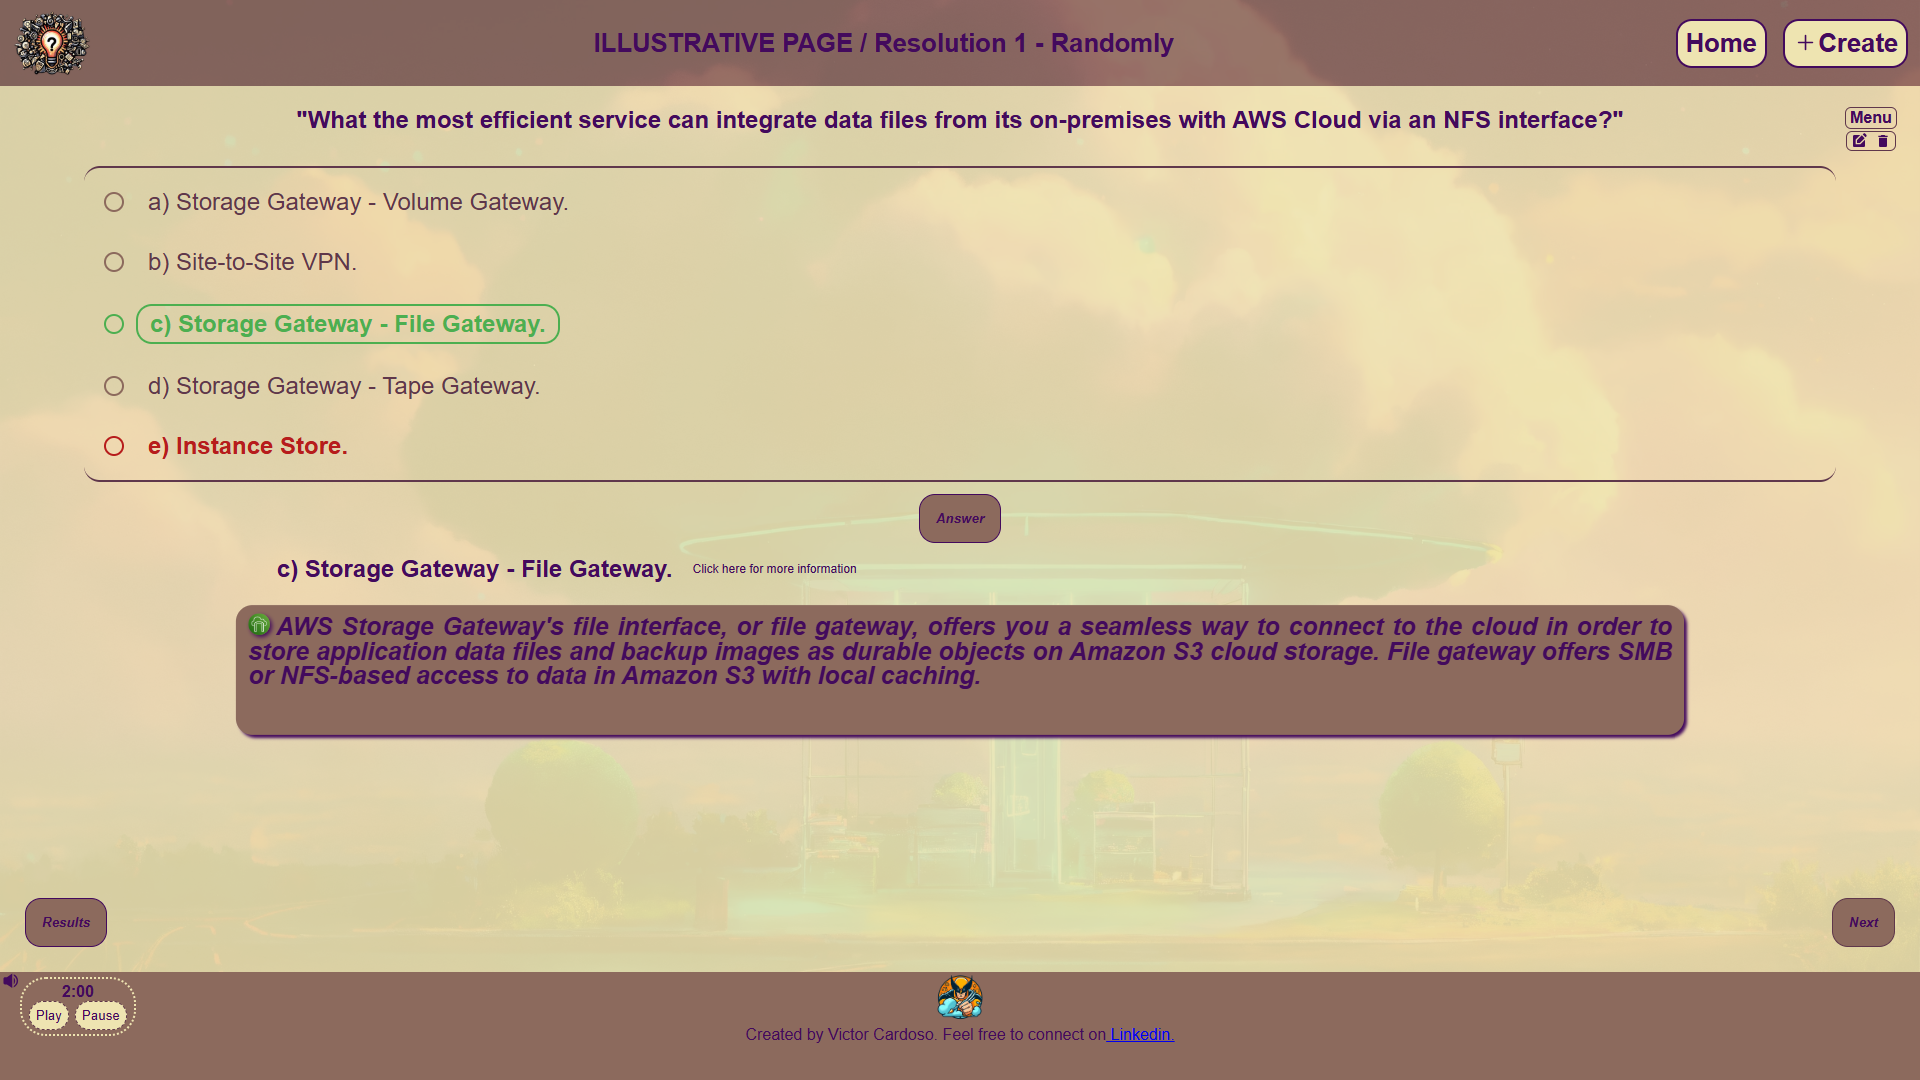
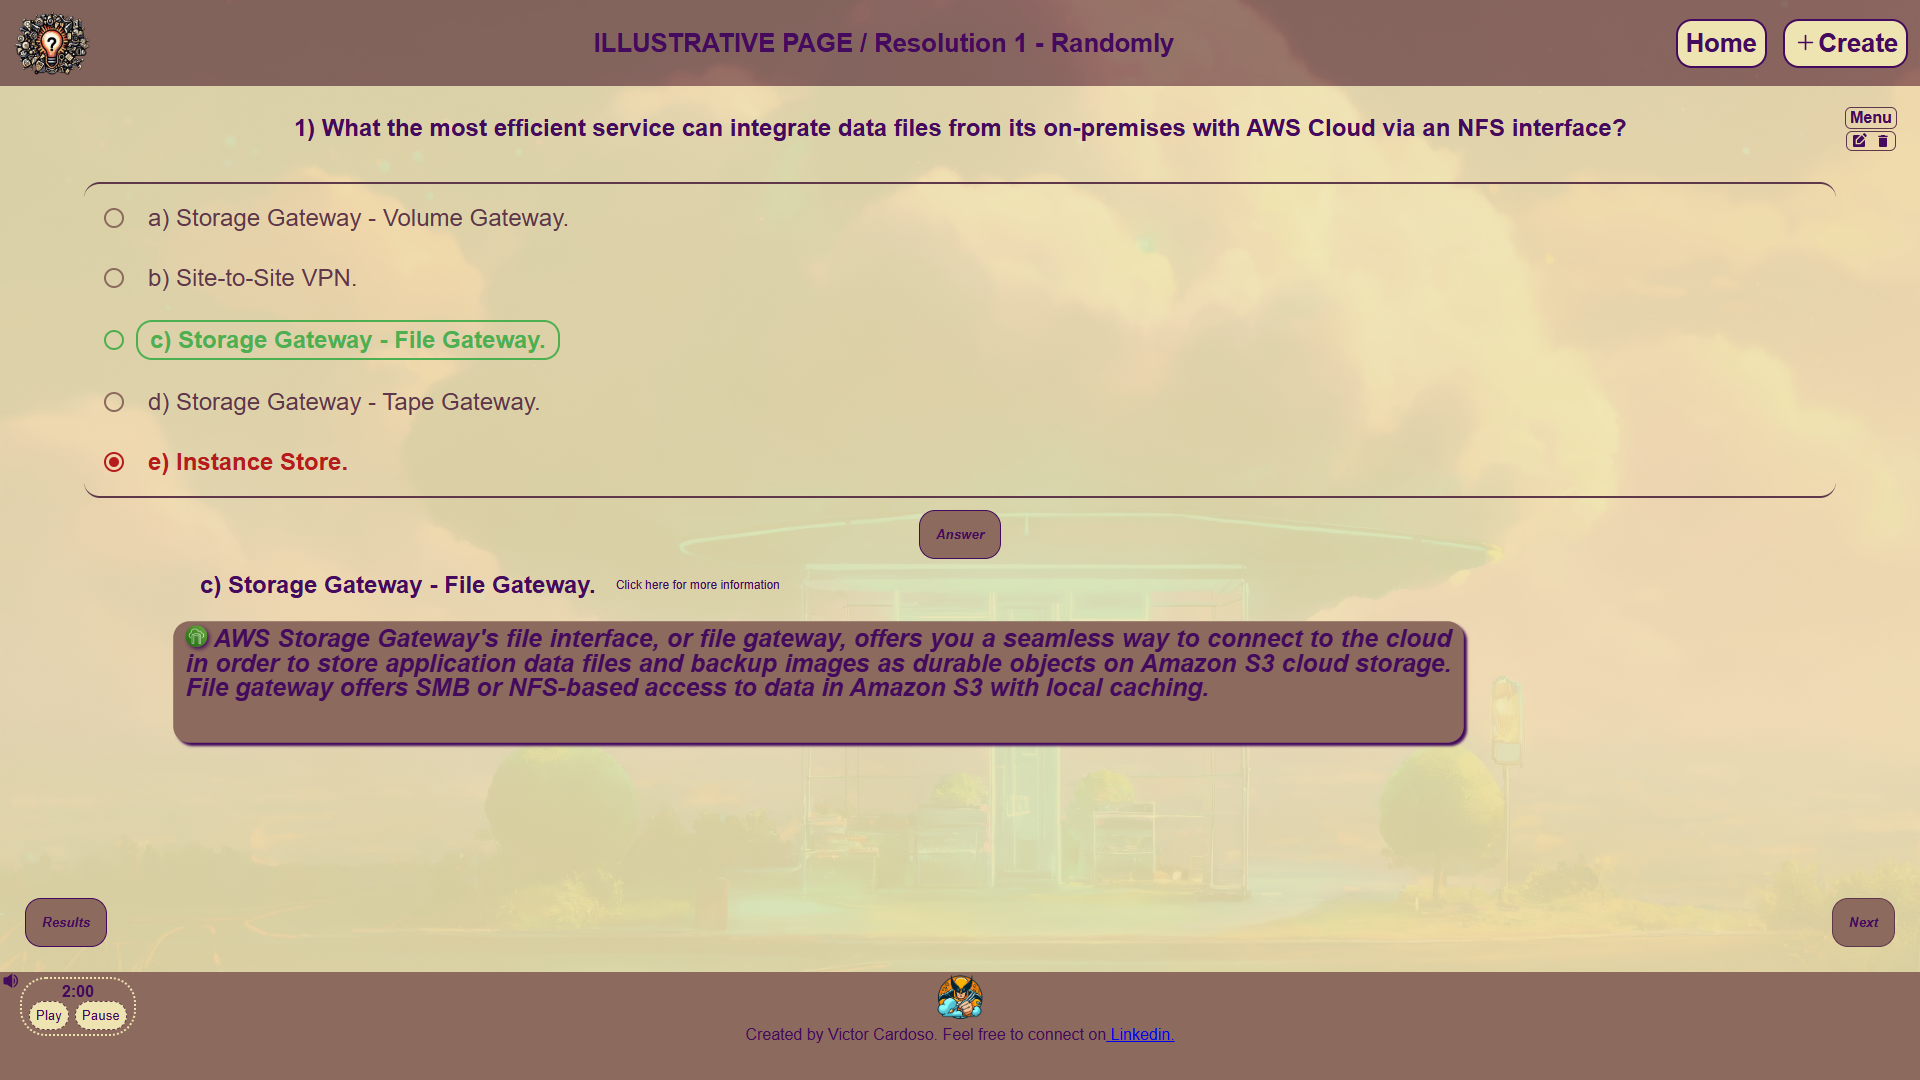
adjust image of readme

diff --git a/src/Pages/IllustrativePage/IllustrativePage.module.css b/src/Pages/IllustrativePage/IllustrativePage.module.css
@@ -476,17 +476,18 @@ ul {
     font-size: 1.3rem;
     color: var(--color-fourth);
     padding: 4px 12px;
+    border-radius: 16px;
+    transition: 0.3s;
     overflow: auto;
+    cursor: default;
 }
 
 .description:hover {
-    cursor: default;
     font-style: italic;
     font-weight: bold;
     background-color: var(--color-second);
     box-shadow: 3px 3px 3px var(--color-fourth);
     transform: scale(1.03);
-    transition: 0.3s;
 }
 
 .description::-webkit-scrollbar {
@@ -499,16 +500,12 @@ ul {
 }
 
 .newDescription {
-    /* display: flex;
-    justify-content: start; */
     font-size: 1.3rem;
-    /* text-align: left; */
     color: Silver;
     background-color: #430A5D;
     padding: 4px 12px;
     border: 1px solid Silver;
     border-radius: 16px;
-    /* margin: 0; */
     z-index: 1;
 }
 

diff --git a/src/Components/AnswerDescription/AnswerDescription.module.css b/src/Components/AnswerDescription/AnswerDescription.module.css
@@ -57,6 +57,8 @@
     margin: 0;
     overflow-wrap: break-word;
     overflow: auto;
+    transition: 0.3s;
+    cursor: default;
 }
 
 .visibleDescription {
@@ -73,13 +75,11 @@
 }
 
 .descriptionNewStyle {
-    font-weight: bold;
     font-style: italic;
+    font-weight: bold;
     background-color: var(--color-second);
     box-shadow: 3px 3px 3px var(--color-fourth);
     transform: scale(1.03);
-    transition: 0.3s;
-    cursor: default;
 }
 
 .imageDescription {
